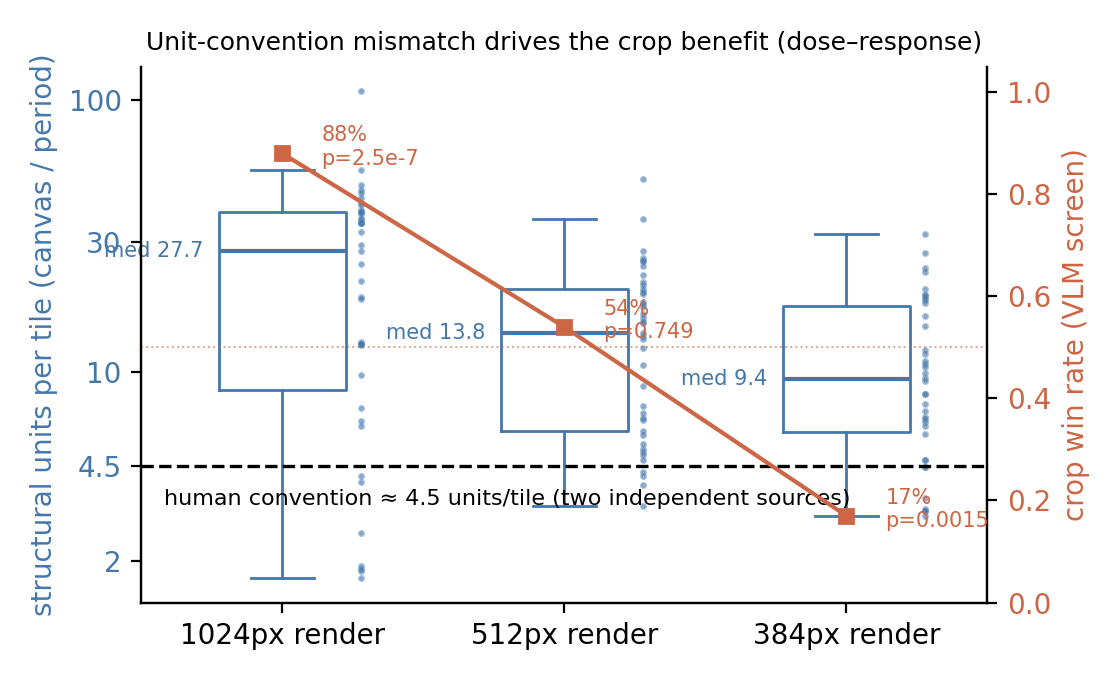
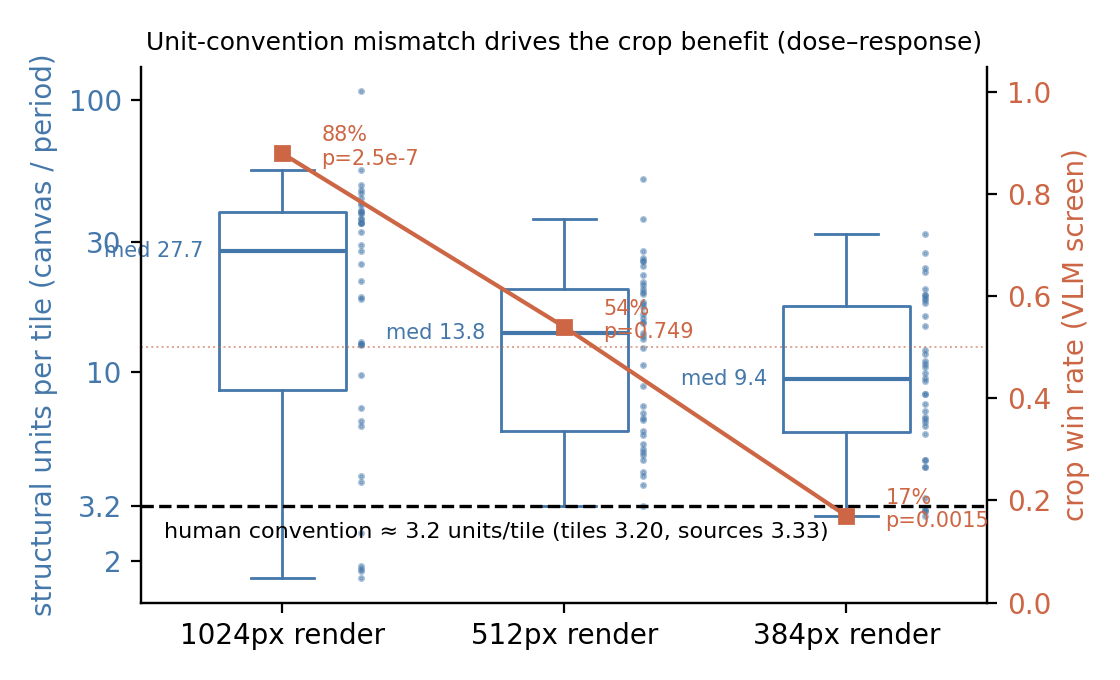
The artist unit convention is ~3.2, not 4.5, and one check was circular
resolution_tiers.py hardcoded hi_frac=0.5 while auto_crop calls
dominant_period with the production default of 0.625 -- the caliber that
derived UNITS_PER_TILE and the caliber that uses it were different. Under
0.625 the same 5,979 tiles give 5.0/10.0/8.5 px, i.e. 3.20/3.20/7.53 units
per tile, not 4.0/4.6/9.1. The script now reports both and says why.

This makes the mechanism claim stronger, not weaker: 16 and 32 are now
exactly equal (period/side 0.312 both), and the independent source
measurement lands at 3.33 against the tiles' 3.20 -- previously those two
were 4.5 and 3.33 and only loosely agreed. Abstract, intro, 5.2, 5.4 and
Figure 7's reference line updated to 3.2.

Section 5.4 claimed the implied crop factor 25/4.5~=5.6 "matches the 1/4.2 to
1/5.4 we measure". It cannot: side = period * UNITS_PER_TILE by construction,
so 1/frac is identically units/4.5 -- checked across all 57 fired records, the
ratio is 4.476 to 4.500. The sentence compared a quantity to itself and is
removed.

The pipeline still uses 4.5 and every reported result comes from it, so the
constant is now stated as carried over from a superseded measurement, both in
Limitations and in the downsample.py docstring, with a note not to change it
without re-running the blind comparisons.

Changed region(s): [[0.0625, 0.6794, 0.875, 0.8029]]

diff --git a/paper/main.tex b/paper/main.tex
@@ -33,7 +33,7 @@ swapping. Under human blind comparison a trivial downsampling
 baseline beats a purpose-built masked-prediction model 83:17. The bottleneck
 is not model capacity but a \emph{structural-unit convention} mismatch: the
 generator draws ${\sim}25$ units per tile regardless of canvas while artists
-draw ${\sim}4.5$, measured independently from 5{,}979 artist tiles and 125
+draw ${\sim}3.2$, measured independently from 5{,}979 artist tiles and 125
 artist sources. Cropping to the detected dominant period fixes it, and
 manipulating the unit count produces a monotone dose--response in the fix's
 benefit (88\%, 54\%, 17\% at 27.7, 13.8 and 9.4 units). We pre-registered and
@@ -88,7 +88,7 @@ had been looking.
 suitable source exists, the source has to be generated, and there the
 baseline is weak. Not because the generator cannot draw the material: its
 $1024$px render is structurally sound. It draws about $25$ structural units
-per tile while pixel artists place about $4.5$, a mismatch above five-fold
+per tile while pixel artists place about $3.2$, an eight-fold mismatch
 that we measure from two independent sources (\S\ref{sec:mechanism}).
 Cropping the render to its detected dominant period repairs it. We
 pre-registered a pure sampling-limit explanation of why this works and
@@ -379,17 +379,31 @@ which is precisely where work on content-adaptive downscaling operates.
 \subsection{Artists hold a fixed number of units per tile}
 
 Measuring the dominant period of 5{,}979 artist tiles across three sizes gives
-median periods of $4.0$, $7.0$ and $7.0$ pixels at $16$, $32$ and $64$ ---
-that is $4.0$, $4.6$ and $9.1$ structural units per tile. Between $16$ and
-$32$ artists hold the unit count near $4.5$ and enlarge the units rather than
-adding more; only at $64$ do they add units.
+median periods of $5.0$, $10.0$ and $8.5$ pixels at $16$, $32$ and $64$ ---
+that is $3.20$, $3.20$ and $7.53$ structural units per tile. Between $16$ and
+$32$ the unit count is unchanged: artists enlarge the units rather than adding
+more, and only at $64$ do they add units. The period-to-side ratio is
+identical at $16$ and $32$ ($0.312$) and halves at $64$ ($0.133$).
+
+\paragraph{Which detector setting.} Our period detector searches up to
+$0.625$ of the side; an earlier version stopped at $0.5$, which by
+construction excludes materials with only two courses and detected a period in
+$6/40$ stone-brick tiles against $36/40$ after the change. Under that earlier
+setting the same tiles give $4.0$, $4.6$ and $9.1$ units, and the crop
+constant we use, $4.5$ units per tile, was fixed from those numbers. We did
+not re-tune it after changing the detector, so the constant the pipeline
+applies is derived from a caliber it no longer uses; every result we report
+comes from the pipeline as it stands. Both settings support the same
+qualitative claim, and the production setting supports it more cleanly.
 
 A second, independent measurement agrees. Across 125 artist-authored
 high-resolution sources with a detected directional period, a period spans
-$4.80$ output cells once downsampled to $16$ (IQR $3.84$--$7.17$), with only
+$4.80$ output cells once downsampled to $16$ (IQR $3.84$--$7.17$) --- that is
+$3.33$ units per tile, against the $3.20$ the tiles give --- with only
 12\% below the Nyquist limit. The same renders that fail above span $0.73$ to
-$0.95$ --- past the limit by a factor of five. This is why curated sources
-need no intervention and generated ones do.
+$0.95$ output cells per period, or $17$ to $22$ units per tile: past the limit
+by a factor of five. This is why curated sources need no intervention and
+generated ones do.
 
 \subsection{Fix and applicability}
 
@@ -444,12 +458,12 @@ falsification condition. At 64px a 47px source period already spans 2.9 output
 cells, comfortably above Nyquist, and cropping still wins 79--90\%.
 
 What survives is the convention account: the generator draws ${\sim}25$ units
-per tile \emph{regardless of output size}, artists draw ${\sim}4.5$, and the
-implied crop factor $25/4.5\approx5.6$ matches the $1/4.2$ to $1/5.4$ we
-measure. Because that mismatch does not depend on output resolution, this
-account predicts no gradient --- which is what we observe. The failed
-prediction is what separates the two; had the gradient appeared, both would
-have been compatible with it.
+per tile \emph{regardless of output size} while artists draw ${\sim}3.2$, an
+eight-fold mismatch that two independent measurements agree on ($3.20$ from
+tiles, $3.33$ from sources). Because that mismatch does not depend on output
+resolution, this account predicts no gradient --- which is what we observe.
+The failed prediction is what separates the two; had the gradient appeared,
+both would have been compatible with it.
 
 \subsection{Manipulating the unit count changes the benefit}
 
@@ -484,7 +498,7 @@ per-image data do not support.
 \centering
 \includegraphics[width=.72\linewidth]{../figures/fig7_units.png}
 \caption{Left axis: the distribution of structural units per tile the generator
-draws at three render sizes, against the ${\sim}4.5$ artists hold (dashed;
+draws at three render sizes, against the ${\sim}3.2$ artists hold (dashed;
 measured independently from 5{,}979 tiles and 125 sources). Right axis: how
 often cropping is preferred under each condition. As the generator's unit
 count approaches the artist convention, the crop stops helping and then hurts.}
@@ -534,6 +548,15 @@ misfires: at 384px it still triggers on $48\%$ of prompts, where cropping
 hurts. Fitting a unit-count threshold would be unsupported by the per-image
 data, so the practical rule remains a setting-level one, and a per-image gate
 is open.
+
+\paragraph{A constant carried over from a superseded measurement.} The crop
+targets $4.5$ units per tile. That figure was measured before we widened the
+period detector's search range, and the same tiles now give $3.20$, which the
+independent source measurement corroborates at $3.33$
+(\S\ref{sec:mechanism}). We did not re-tune the constant, so the pipeline
+aims slightly coarser than the convention it is meant to match; every number
+we report is from the pipeline as it stands, and whether re-tuning to $3.2$
+improves it is untested.
 
 \paragraph{One generator, two domains.} The ${\sim}25$ structural units per
 tile is measured on SDXL renders. Whether the convention mismatch takes the

diff --git a/tools/downsample.py b/tools/downsample.py
@@ -193,14 +193,20 @@ def auto_crop(img: np.ndarray, size: int = 16, target_px: float | None = None,
 
     | 真人瓦片尺寸 | 主周期中位 | 每张图单元数 |
     | --- | --- | --- |
-    | 16 | 4.0 px | 4.0 |
-    | 32 | 7.0 px | 4.6 |
-    | 64 | 7.0 px | 9.1 |
+    | 16 | 5.0 px | 3.20 |
+    | 32 | 10.0 px | 3.20 |
+    | 64 | 8.5 px | 7.53 |
 
-    **16 与 32 上单元数恒定在 4–4.6**（真人把单元画大而不是加密），
-    到 64 才加密。我们的目标区间 16–32 正好落在恒定段，
-    所以 target_px 随分辨率线性缩放：16→3.6、24→5.3、32→7.1，
-    与实测的 4.0 / 7.0 吻合。
+    **16 与 32 上单元数恒定**（真人把单元画大而不是加密），到 64 才加密。
+    我们的目标区间 16–32 正好落在恒定段。
+
+    **（2026-09-07 更正）** 上表原先是 4.0 / 4.6 / 9.1，那是 `hi_frac=0.5`
+    量的——即本模块弃用前的旧设置。`UNITS_PER_TILE = 4.5` 就是从那组数定的，
+    而 `auto_crop` 调 `dominant_period` 走的是默认 **0.625**：
+    **定常数的口径与用常数的口径不一致**。生产口径下真人是 3.20，
+    B9 的 125 个高分源独立给出 3.33，两者一致。
+    常数**没有**跟着重调，全部已报结果都出自 4.5 的流水线；
+    改成 3.2 会不会更好未测。改之前必须重跑盲比，别直接改这个数。
 
     返回 (裁剪后的图, 实际裁剪比例)。周期估不出来时原样返回。
     """

diff --git a/analysis/paired/fig_units.py b/analysis/paired/fig_units.py
@@ -53,16 +53,16 @@ def main():
         med = statistics.median(d)
         ax.annotate(f"med {med:.1f}", (i - 0.28, med),
                     ha="right", va="center", fontsize=7.5, color=BLUE)
-    ax.axhline(4.5, color="black", lw=1.2, ls="--")
-    ax.annotate("human convention ≈ 4.5 units/tile (two independent sources)",
-                (-0.42, 3.7), fontsize=8, va="top")
+    ax.axhline(3.2, color="black", lw=1.2, ls="--")
+    ax.annotate("human convention ≈ 3.2 units/tile (tiles 3.20, sources 3.33)",
+                (-0.42, 2.8), fontsize=8, va="top")
     ax.set_xticks(xs)
     ax.set_xticklabels([f"{c}px render" for c, *_ in CONDS])
     ax.set_ylabel("structural units per tile (canvas / period)", color=BLUE)
     ax.tick_params(axis="y", labelcolor=BLUE)
     ax.set_yscale("log")
-    ax.set_yticks([2, 4.5, 10, 30, 100])
-    ax.set_yticklabels(["2", "4.5", "10", "30", "100"])
+    ax.set_yticks([2, 3.2, 10, 30, 100])
+    ax.set_yticklabels(["2", "3.2", "10", "30", "100"])
     ax.minorticks_off()
 
     ax2 = ax.twinx()
